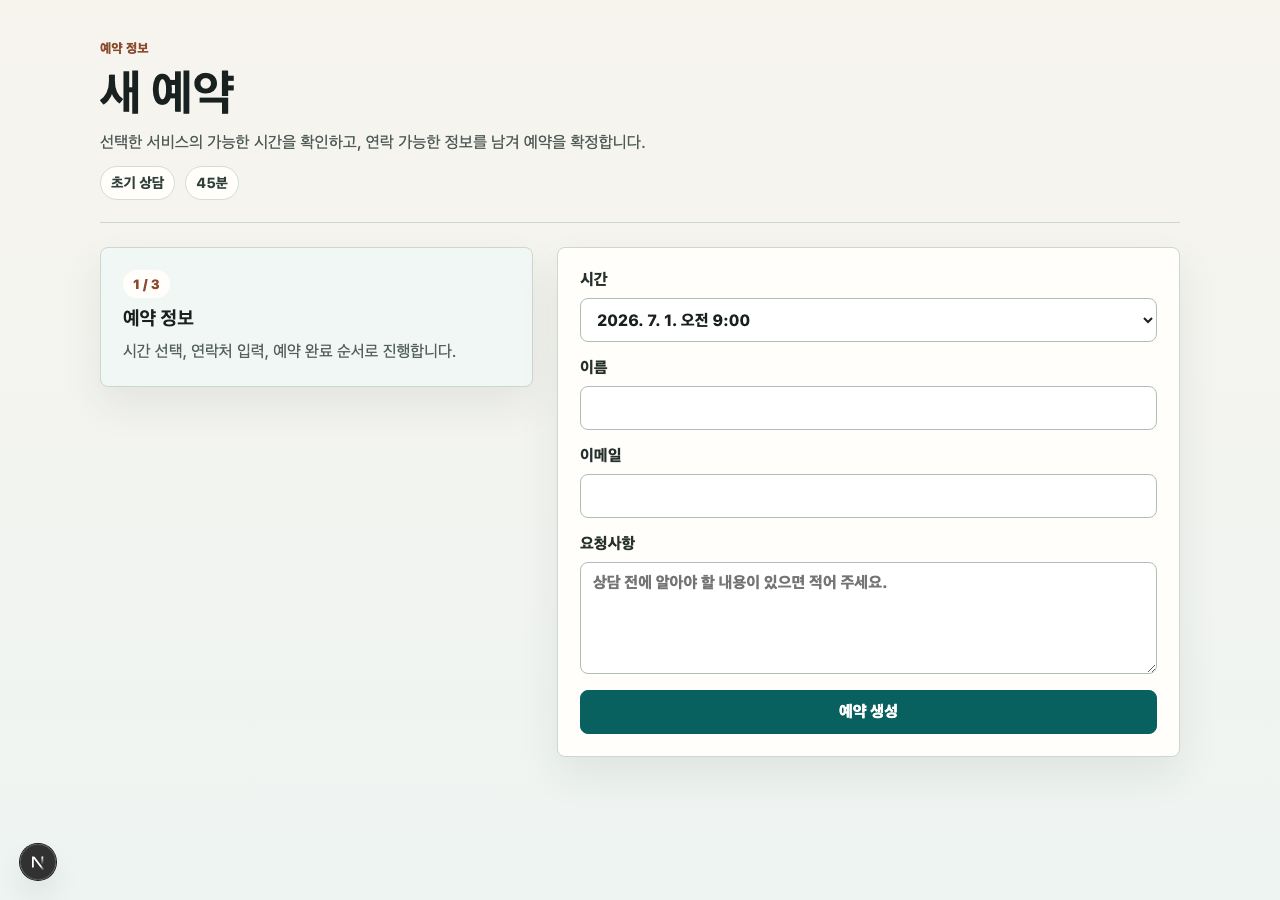
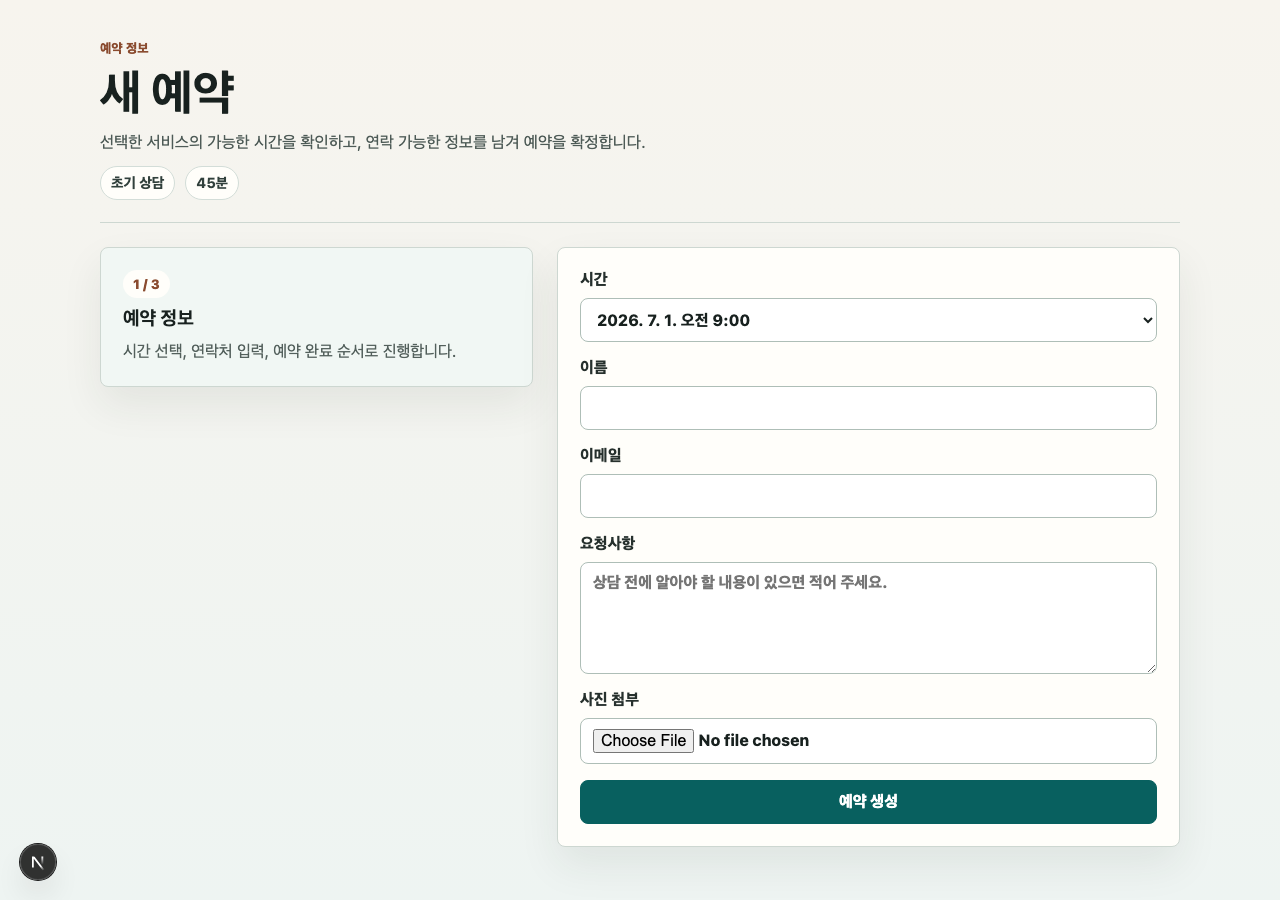
chore: verify booking request photo attachment

Changed region(s): [[0.4375, 0.7467, 0.9375, 0.9333]]

diff --git a/pilot/wiki/actions/create-booking.md b/pilot/wiki/actions/create-booking.md
@@ -4,9 +4,9 @@ type: action
 title: 예약 생성
 summary: 예약 가능한 슬롯을 확보하고 확정 예약을 만든다.
 wdd_status:
-  phase: coding
-  code: pending
-  verification: pending
+  phase: verified
+  code: reflected
+  verification: passed
 depends_on:
   - models/booking
   - models/service

diff --git a/pilot/wiki/entities/bookings.md b/pilot/wiki/entities/bookings.md
@@ -4,9 +4,9 @@ type: entity
 title: 예약
 summary: 서비스 슬롯에 대한 고객 예약.
 wdd_status:
-  phase: coding
-  code: pending
-  verification: pending
+  phase: verified
+  code: reflected
+  verification: passed
 depends_on:
   - entities/services
   - entities/availability-slots

diff --git a/pilot/wiki/flows/create-booking-flow.md b/pilot/wiki/flows/create-booking-flow.md
@@ -4,9 +4,9 @@ type: flow
 title: 예약 생성 플로우
 summary: 서비스 선택부터 예약 확인까지의 흐름.
 wdd_status:
-  phase: coding
-  code: pending
-  verification: pending
+  phase: verified
+  code: reflected
+  verification: passed
 depends_on:
   - pages/service-list
   - pages/booking-new

diff --git a/pilot/wiki/models/booking.md b/pilot/wiki/models/booking.md
@@ -4,9 +4,9 @@ type: model
 title: 예약 모델
 summary: 예약의 도메인 검증과 상태 모델.
 wdd_status:
-  phase: coding
-  code: pending
-  verification: pending
+  phase: verified
+  code: reflected
+  verification: passed
 depends_on:
   - entities/bookings
   - models/service

diff --git a/pilot/wiki/pages/booking-detail.md b/pilot/wiki/pages/booking-detail.md
@@ -4,9 +4,9 @@ type: page
 title: 예약 상세
 summary: 기존 예약을 관리한다.
 wdd_status:
-  phase: coding
-  code: pending
-  verification: pending
+  phase: verified
+  code: reflected
+  verification: passed
 depends_on:
   - models/booking
   - actions/reschedule-booking

diff --git a/pilot/wiki/pages/booking-new.md b/pilot/wiki/pages/booking-new.md
@@ -4,9 +4,9 @@ type: page
 title: 새 예약
 summary: 슬롯을 선택하고 고객 정보를 입력한다.
 wdd_status:
-  phase: coding
-  code: pending
-  verification: pending
+  phase: verified
+  code: reflected
+  verification: passed
 depends_on:
   - models/service
   - models/availability-slot

diff --git a/pilot/wiki/work-items/booking-request-photo.md b/pilot/wiki/work-items/booking-request-photo.md
@@ -4,9 +4,9 @@ type: work_item
 title: 예약 요청사항 사진 첨부
 summary: 새 예약 요청사항에 시연용 사진 1장을 첨부하고 완료와 상세 화면에서 조회한다.
 work_status:
-  phase: product_wiki_patch
-  digest: pending
-  verification: pending
+  phase: completed
+  digest: reflected
+  verification: passed
 patches:
   - target: entities/bookings
     status: applied